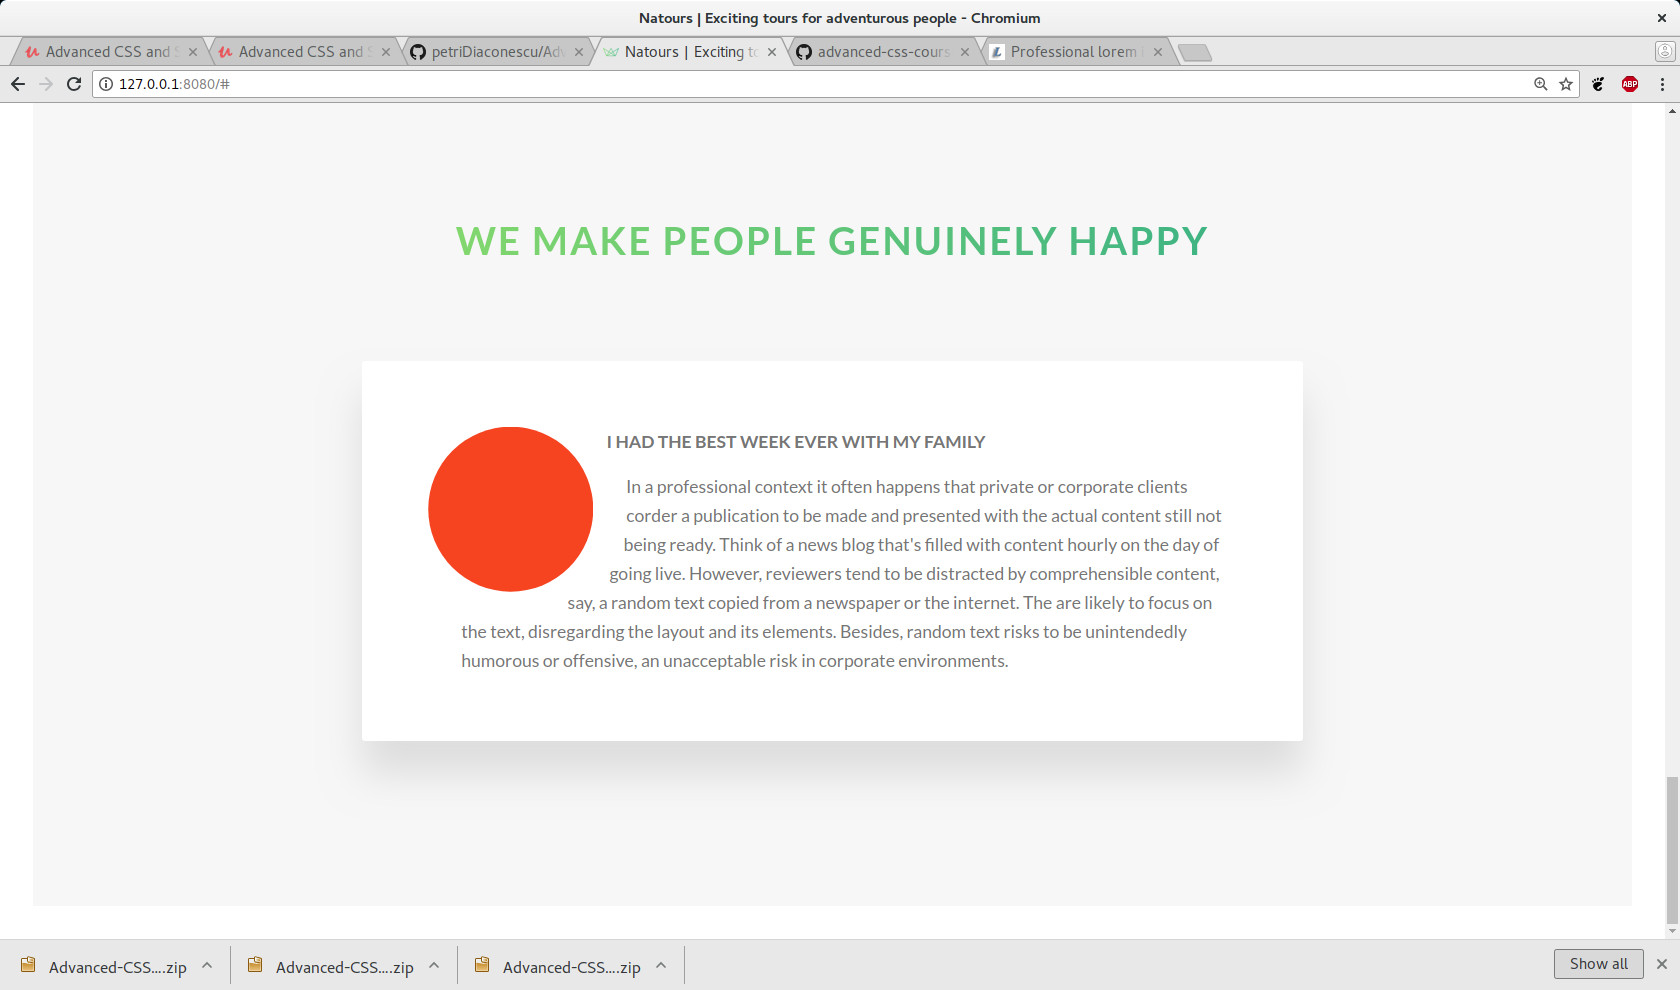
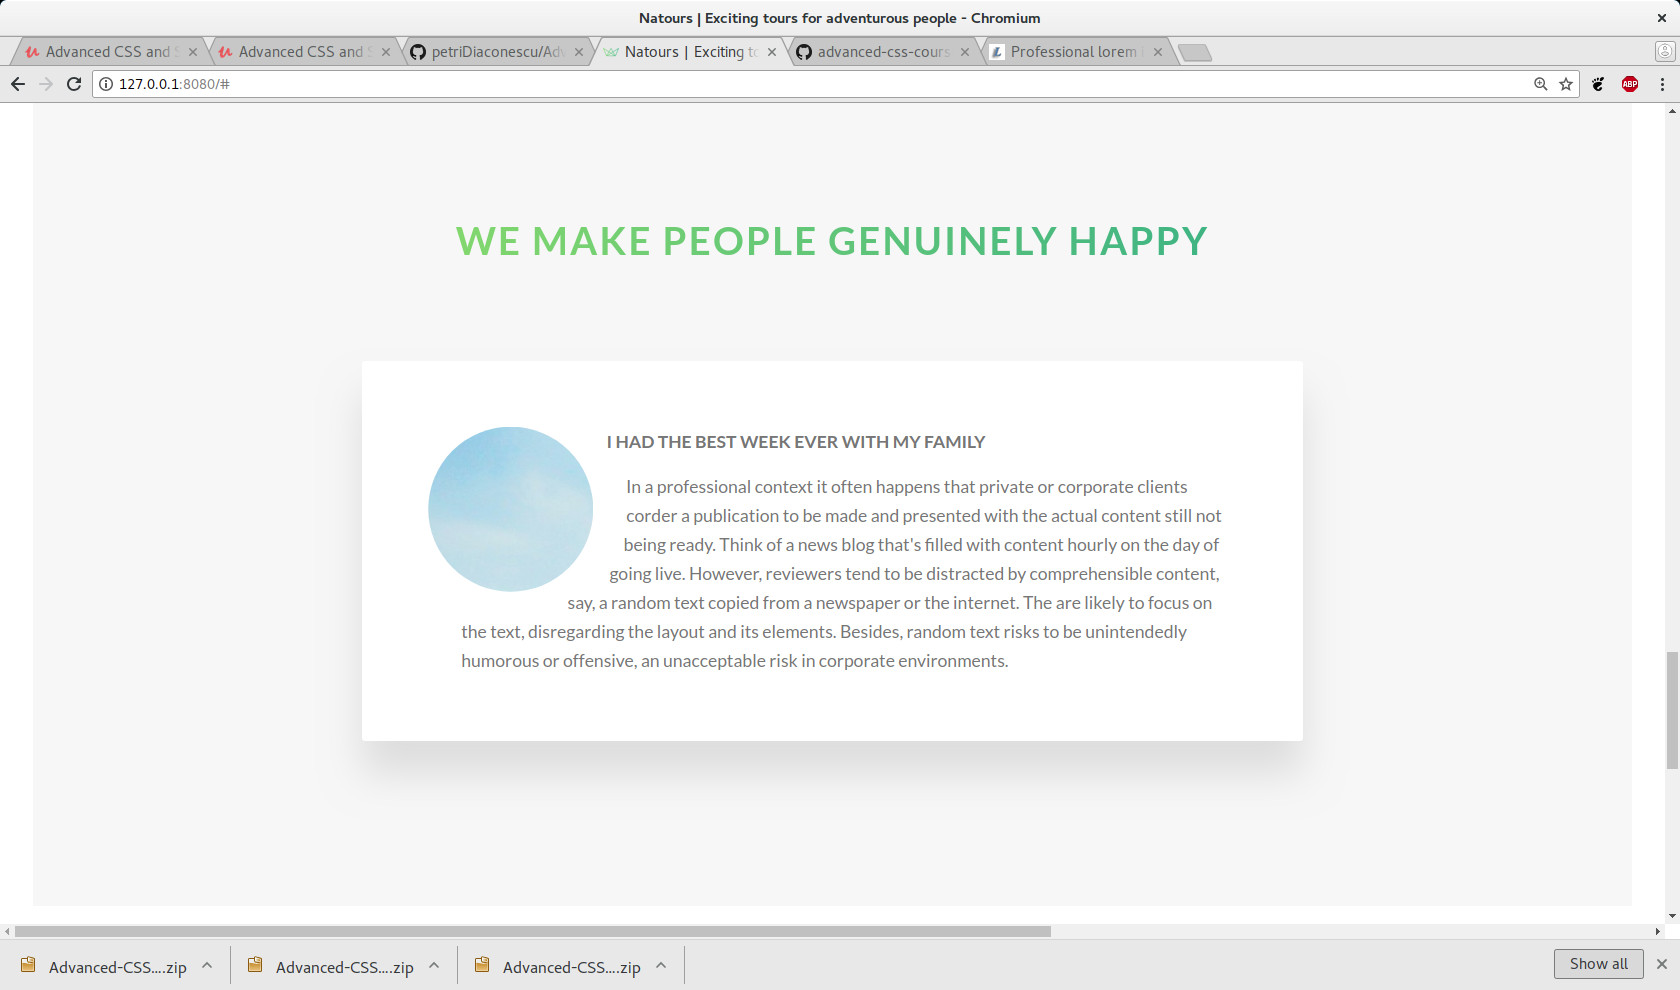
Flexible images for responsive web design always need a width. Because we didn't give a width before the image ocupied its whole entire space 2800X1333pixels, so in clipped figure wasn't entirely visible.

Changed region(s): [[0.0, 0.9091, 0.619, 0.9697], [0.2476, 0.4242, 0.3714, 0.6061], [0.9905, 0.6364, 1.0, 0.9394]]

diff --git a/index.html b/index.html
@@ -228,7 +228,7 @@
           <div class="row">
             <div class="story">
               <figure class="story__shape">
-                <img src="img/nat-8.jpg" alt="Person on a tour"  />
+                <img src="img/nat-8.jpg" alt="Person on a tour" class="story__img" />
               </figure>
               <div class="story__text">
                 <h3 class="heading-tertiary u-margin-bottom-small">I had the best week ever with my family</h3>

diff --git a/sass/main.scss b/sass/main.scss
@@ -10,7 +10,7 @@
 @import "components/button";
 @import "components/card";
 @import "components/composition";
-@import "components/feature-box";
+@import "components/feature-box"; 
 @import "components/stories"; 
 
 @import "layout/grid";

diff --git a/sass/components/_stories.scss b/sass/components/_stories.scss
@@ -20,6 +20,8 @@
     transform: translateX(-3rem);
   }
   
-  
+  &__img {
+    width: 100%;
+  }
 }
 
